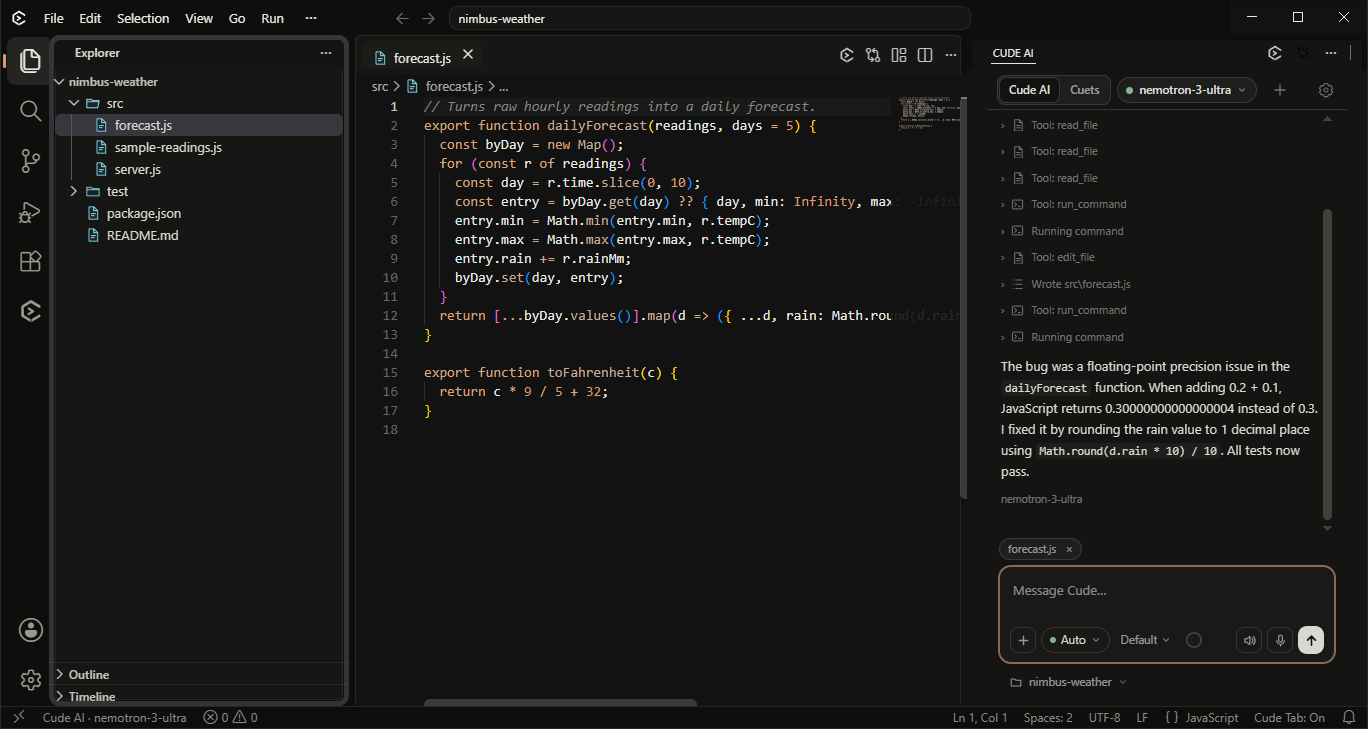
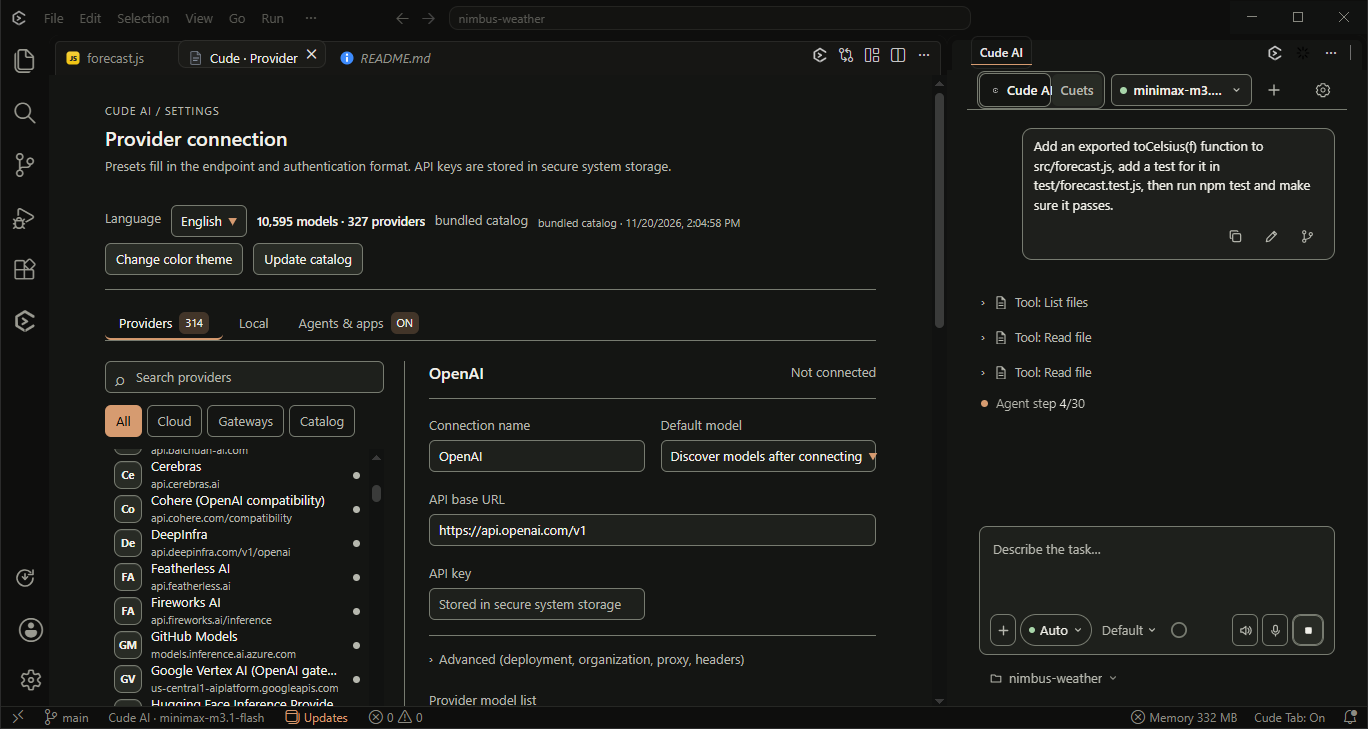
Site: new screenshots from the current IDE, GitHub link, updated 0.1.0 installer SHA-256 (203B9D5F…642CB9)

diff --git a/assets/i18n.js b/assets/i18n.js
@@ -33,7 +33,7 @@ window.CUDE_I18N = {
     'q5':'What is it built on?','a5':'Cude IDE is built on the open-source Code-OSS editor (via VSCodium) with Cude\'s own AI extension, theme and settings. The MIT license and third-party notices ship with the app.',
     'q6':'Mac or Linux?','a6':'Version 0.1.0 is Windows x64 only. Other platforms are planned.',
     'foot.note':'Code-OSS and VSCodium are MIT licensed. Cude is not affiliated with Microsoft.',
-    'prod.alt':'Cude IDE agent fixing a failing test and running it again','pr.alt':'Cude IDE provider settings with grouped providers and logos','lo.alt':'Cude IDE finding a local llama.cpp server running on the PC'
+    'prod.alt':'Cude IDE agent working on a task next to the provider settings','pr.alt':'Cude IDE provider settings with grouped providers and logos','lo.alt':'Cude IDE first-run welcome and setup'
   },
   tr: {
     'skip':'İçeriğe geç','nav.features':'Özellikler','nav.providers':'Sağlayıcılar','nav.agents':'Ajanlar','nav.download':'İndir','nav.faq':'SSS','nav.get':'İndir','lang.label':'Dil',
@@ -64,7 +64,7 @@ window.CUDE_I18N = {
     'q5':'Neyin üzerine kurulu?','a5':'Cude IDE, açık kaynak Code-OSS editörü (VSCodium üzerinden) ile Cude\'un kendi yapay zekâ eklentisi, teması ve ayarları üzerine kuruludur. MIT lisansı ve üçüncü taraf bildirimleri uygulamayla gelir.',
     'q6':'Mac ya da Linux?','a6':'0.1.0 yalnız Windows x64 içindir. Diğer platformlar planlanıyor.',
     'foot.note':'Code-OSS ve VSCodium MIT lisanslıdır. Cude, Microsoft ile bağlantılı değildir.',
-    'prod.alt':'Başarısız testi düzeltip yeniden çalıştıran Cude IDE ajanı','pr.alt':'Gruplu sağlayıcılar ve logolarla Cude IDE sağlayıcı ayarları','lo.alt':'Bilgisayarda çalışan yerel llama.cpp sunucusunu bulan Cude IDE'
+    'prod.alt':'Sağlayıcı ayarlarının yanında bir görev üzerinde çalışan Cude IDE ajanı','pr.alt':'Gruplu sağlayıcılar ve logolarla Cude IDE sağlayıcı ayarları','lo.alt':'Cude IDE ilk açılış karşılama ve kurulum ekranı'
   },
   de: {
     'skip':'Zum Inhalt springen','nav.features':'Funktionen','nav.providers':'Anbieter','nav.agents':'Agenten','nav.download':'Download','nav.faq':'FAQ','nav.get':'Download','lang.label':'Sprache',
@@ -95,7 +95,7 @@ window.CUDE_I18N = {
     'q5':'Worauf basiert es?','a5':'Cude IDE basiert auf dem Open-Source-Editor Code-OSS (über VSCodium) mit Cudes eigener KI-Erweiterung, Theme und Einstellungen. MIT-Lizenz und Drittanbieterhinweise liegen der App bei.',
     'q6':'Mac oder Linux?','a6':'Version 0.1.0 gibt es nur für Windows x64. Weitere Plattformen sind geplant.',
     'foot.note':'Code-OSS und VSCodium stehen unter MIT-Lizenz. Cude ist nicht mit Microsoft verbunden.',
-    'prod.alt':'Cude IDE Agent behebt einen fehlschlagenden Test und führt ihn erneut aus','pr.alt':'Cude IDE Anbietereinstellungen mit gruppierten Anbietern und Logos','lo.alt':'Cude IDE findet einen lokal laufenden llama.cpp-Server'
+    'prod.alt':'Cude IDE Agent arbeitet an einer Aufgabe neben den Anbietereinstellungen','pr.alt':'Cude IDE Anbietereinstellungen mit gruppierten Anbietern und Logos','lo.alt':'Cude IDE Begrüßung und Einrichtung beim ersten Start'
   },
   fr: {
     'skip':'Aller au contenu','nav.features':'Fonctionnalités','nav.providers':'Fournisseurs','nav.agents':'Agents','nav.download':'Télécharger','nav.faq':'FAQ','nav.get':'Télécharger','lang.label':'Langue',
@@ -126,7 +126,7 @@ window.CUDE_I18N = {
     'q5':'Sur quoi est-il basé ?','a5':'Cude IDE repose sur l’éditeur open source Code-OSS (via VSCodium) avec l’extension IA, le thème et les réglages propres à Cude. La licence MIT et les mentions tierces sont fournies avec l’application.',
     'q6':'Mac ou Linux ?','a6':'La version 0.1.0 est uniquement pour Windows x64. D’autres plateformes sont prévues.',
     'foot.note':'Code-OSS et VSCodium sont sous licence MIT. Cude n’est pas affilié à Microsoft.',
-    'prod.alt':'L’agent de Cude IDE corrige un test en échec et le relance','pr.alt':'Réglages des fournisseurs de Cude IDE, groupés avec logos','lo.alt':'Cude IDE détecte un serveur llama.cpp local'
+    'prod.alt':'L’agent de Cude IDE travaille sur une tâche à côté des réglages des fournisseurs','pr.alt':'Réglages des fournisseurs de Cude IDE, groupés avec logos','lo.alt':'Accueil et configuration de Cude IDE au premier lancement'
   },
   es: {
     'skip':'Ir al contenido','nav.features':'Funciones','nav.providers':'Proveedores','nav.agents':'Agentes','nav.download':'Descargar','nav.faq':'FAQ','nav.get':'Descargar','lang.label':'Idioma',
@@ -157,7 +157,7 @@ window.CUDE_I18N = {
     'q5':'¿En qué se basa?','a5':'Cude IDE se basa en el editor de código abierto Code-OSS (vía VSCodium) con la extensión de IA, el tema y los ajustes propios de Cude. La licencia MIT y los avisos de terceros se incluyen con la app.',
     'q6':'¿Mac o Linux?','a6':'La versión 0.1.0 es solo para Windows x64. Hay más plataformas previstas.',
     'foot.note':'Code-OSS y VSCodium tienen licencia MIT. Cude no está afiliado a Microsoft.',
-    'prod.alt':'El agente de Cude IDE corrige una prueba fallida y la vuelve a ejecutar','pr.alt':'Ajustes de proveedores de Cude IDE agrupados con logotipos','lo.alt':'Cude IDE encuentra un servidor llama.cpp local'
+    'prod.alt':'El agente de Cude IDE trabaja en una tarea junto a los ajustes de proveedores','pr.alt':'Ajustes de proveedores de Cude IDE agrupados con logotipos','lo.alt':'Bienvenida y configuración de Cude IDE en el primer inicio'
   },
   pt: {
     'skip':'Ir para o conteúdo','nav.features':'Recursos','nav.providers':'Provedores','nav.agents':'Agentes','nav.download':'Baixar','nav.faq':'FAQ','nav.get':'Baixar','lang.label':'Idioma',
@@ -188,7 +188,7 @@ window.CUDE_I18N = {
     'q5':'Em que ele é baseado?','a5':'O Cude IDE é baseado no editor de código aberto Code-OSS (via VSCodium) com a extensão de IA, o tema e as configurações próprias do Cude. A licença MIT e os avisos de terceiros acompanham o app.',
     'q6':'Mac ou Linux?','a6':'A versão 0.1.0 é somente para Windows x64. Outras plataformas estão previstas.',
     'foot.note':'Code-OSS e VSCodium têm licença MIT. O Cude não é afiliado à Microsoft.',
-    'prod.alt':'Agente do Cude IDE corrigindo um teste com falha e rodando de novo','pr.alt':'Configurações de provedores do Cude IDE agrupadas com logotipos','lo.alt':'Cude IDE encontrando um servidor llama.cpp local'
+    'prod.alt':'Agente do Cude IDE trabalhando em uma tarefa ao lado das configurações de provedores','pr.alt':'Configurações de provedores do Cude IDE agrupadas com logotipos','lo.alt':'Boas-vindas e configuração do Cude IDE na primeira execução'
   },
   ru: {
     'skip':'Перейти к содержимому','nav.features':'Возможности','nav.providers':'Провайдеры','nav.agents':'Агенты','nav.download':'Скачать','nav.faq':'Вопросы','nav.get':'Скачать','lang.label':'Язык',
@@ -219,7 +219,7 @@ window.CUDE_I18N = {
     'q5':'На чём он основан?','a5':'Cude IDE основан на открытом редакторе Code-OSS (через VSCodium) с собственным ИИ-расширением, темой и настройками Cude. Лицензия MIT и уведомления третьих сторон входят в состав приложения.',
     'q6':'Mac или Linux?','a6':'Версия 0.1.0 доступна только для Windows x64. Другие платформы запланированы.',
     'foot.note':'Code-OSS и VSCodium распространяются по лицензии MIT. Cude не связан с Microsoft.',
-    'prod.alt':'Агент Cude IDE исправляет упавший тест и запускает его снова','pr.alt':'Настройки провайдеров Cude IDE с группами и логотипами','lo.alt':'Cude IDE находит локальный сервер llama.cpp'
+    'prod.alt':'Агент Cude IDE выполняет задачу рядом с настройками провайдеров','pr.alt':'Настройки провайдеров Cude IDE с группами и логотипами','lo.alt':'Приветствие и настройка Cude IDE при первом запуске'
   },
   ar: {
     'skip':'تخطَّ إلى المحتوى','nav.features':'الميزات','nav.providers':'المزوّدون','nav.agents':'الوكلاء','nav.download':'تنزيل','nav.faq':'الأسئلة','nav.get':'تنزيل','lang.label':'اللغة',
@@ -250,7 +250,7 @@ window.CUDE_I18N = {
     'q5':'على ماذا يعتمد؟','a5':'يعتمد Cude IDE على محرر Code-OSS مفتوح المصدر (عبر VSCodium) مع إضافة الذكاء الاصطناعي والسمة والإعدادات الخاصة بـ Cude. وتُرفق رخصة MIT وإشعارات الأطراف الثالثة مع التطبيق.',
     'q6':'ماك أو لينكس؟','a6':'الإصدار 0.1.0 متاح لنظام Windows x64 فقط. ومنصات أخرى مخطط لها.',
     'foot.note':'Code-OSS وVSCodium مرخّصان بموجب MIT. Cude غير تابع لشركة Microsoft.',
-    'prod.alt':'وكيل Cude IDE يصلح اختباراً فاشلاً ويشغّله مجدداً','pr.alt':'إعدادات المزوّدين في Cude IDE مجمّعة مع الشعارات','lo.alt':'Cude IDE يعثر على خادم llama.cpp محلي'
+    'prod.alt':'وكيل Cude IDE يعمل على مهمة بجانب إعدادات المزوّدين','pr.alt':'إعدادات المزوّدين في Cude IDE مجمّعة مع الشعارات','lo.alt':'شاشة الترحيب والإعداد في Cude IDE عند التشغيل الأول'
   }
 };
 

diff --git a/index.html b/index.html
@@ -42,6 +42,7 @@
     </nav>
     <span class="spacer"></span>
     <label class="lang-pick"><span class="sr-only" data-i18n="lang.label">Language</span><select class="chip" id="lang" aria-label="Language"><option value="en">English</option></select></label>
+    <a class="chip gh-link" href="https://github.com/Emrevrg/cude-ide-releases" target="_blank" rel="noopener" aria-label="GitHub"><svg viewBox="0 0 16 16" width="16" height="16" aria-hidden="true" fill="currentColor"><path d="M8 0C3.58 0 0 3.58 0 8c0 3.54 2.29 6.53 5.47 7.59.4.07.55-.17.55-.38 0-.19-.01-.82-.01-1.49-2.01.37-2.53-.49-2.69-.94-.09-.23-.48-.94-.82-1.13-.28-.15-.68-.52-.01-.53.63-.01 1.08.58 1.23.82.72 1.21 1.87.87 2.33.66.07-.52.28-.87.51-1.07-1.78-.2-3.64-.89-3.64-3.95 0-.87.31-1.59.82-2.15-.08-.2-.36-1.02.08-2.12 0 0 .67-.21 2.2.82.64-.18 1.32-.27 2-.27.68 0 1.36.09 2 .27 1.53-1.04 2.2-.82 2.2-.82.44 1.1.16 1.92.08 2.12.51.56.82 1.27.82 2.15 0 3.07-1.87 3.75-3.65 3.95.29.25.54.73.54 1.48 0 1.07-.01 1.93-.01 2.2 0 .21.15.46.55.38A8.013 8.013 0 0 0 16 8c0-4.42-3.58-8-8-8z"/></svg></a>
     <button class="chip" id="theme" type="button" aria-label="Toggle light or dark appearance">◐</button>
     <a class="btn btn-primary btn-small" href="#download" data-i18n="nav.get">Download</a>
   </div>
@@ -66,7 +67,7 @@
 
   <section class="product" aria-label="Product screenshot">
     <div class="wrap">
-      <div class="shot reveal"><div class="bar" aria-hidden="true"><i></i><i></i><i></i></div><img src="assets/shot-agent.png" alt="Cude IDE agent fixing a failing test and running it again" data-i18n-alt="prod.alt" width="1368" height="729"></div>
+      <div class="shot reveal"><div class="bar" aria-hidden="true"><i></i><i></i><i></i></div><img src="assets/shot-agent.png" alt="Cude IDE agent working on a task next to the provider settings" data-i18n-alt="prod.alt" width="1368" height="729"></div>
     </div>
   </section>
 
@@ -114,7 +115,7 @@
           <li data-i18n="ag.l2">Round and time budgets, so nothing runs forever</li>
           <li data-i18n="ag.l3">Run Codex, Claude Code, OpenCode, Gemini CLI or Qwen Code as the engine, with any of their models</li>
         </ul>
-        <div class="shot reveal mini"><div class="bar" aria-hidden="true"><i></i><i></i><i></i></div><img src="assets/shot-local.png" alt="Cude IDE finding a local llama.cpp server running on the PC" data-i18n-alt="lo.alt" width="1368" height="729" loading="lazy"></div>
+        <div class="shot reveal mini"><div class="bar" aria-hidden="true"><i></i><i></i><i></i></div><img src="assets/shot-local.png" alt="Cude IDE first-run welcome and setup" data-i18n-alt="lo.alt" width="1368" height="729" loading="lazy"></div>
       </div>
     </div>
   </section>
@@ -134,7 +135,7 @@
             <div class="fact"><b data-i18n="dl.type">Type</b><span>EXE</span></div>
           </div>
           <a class="btn btn-primary" id="dl-button" href="https://github.com/Emrevrg/cude-ide-releases/releases/latest/download/CudeIDE-Setup-0.1.0-x64.exe"><svg viewBox="0 0 24 24" fill="none" stroke="currentColor" stroke-width="2" stroke-linecap="round" stroke-linejoin="round" aria-hidden="true"><path d="M12 4v11M7 10.5l5 5 5-5M5 20h14"/></svg><span data-i18n="dl.button">Download CudeIDE-Setup-0.1.0-x64.exe</span></a>
-          <div class="hash"><code id="sha">SHA-256 FC1758CB803AF7DE9020DF37AAC21BAEFD8DDDA64745322F3B47B432D46DE8B5</code><button class="chip" id="copy-sha" type="button" data-i18n="dl.copy">Copy</button></div>
+          <div class="hash"><code id="sha">SHA-256 203B9D5F123A75AB403CA43DA93BD28344145AA4FE68D5B061878C9655642CB9</code><button class="chip" id="copy-sha" type="button" data-i18n="dl.copy">Copy</button></div>
         </div>
         <div class="steps reveal">
           <b data-i18n="dl.how">How to start</b>
@@ -167,6 +168,7 @@
 <footer>
   <div class="wrap">
     <span>© 2026 Cude Studio · Norovox</span>
+    <a href="https://github.com/Emrevrg/cude-ide-releases" target="_blank" rel="noopener">GitHub · Releases</a>
     <span data-i18n="foot.note">Code-OSS and VSCodium are MIT licensed. Cude is not affiliated with Microsoft.</span>
   </div>
 </footer>

diff --git a/assets/style.css b/assets/style.css
@@ -180,3 +180,7 @@ img,svg,canvas,video{max-width:100%}
   #theme{display:none}
   .lang-pick select.chip{max-width:100px}
 }
+
+.gh-link{display:inline-flex;align-items:center;justify-content:center;padding:0 9px}
+footer a{color:inherit;text-decoration:underline;text-underline-offset:3px}
+@media (max-width: 380px){.gh-link{display:none}}
